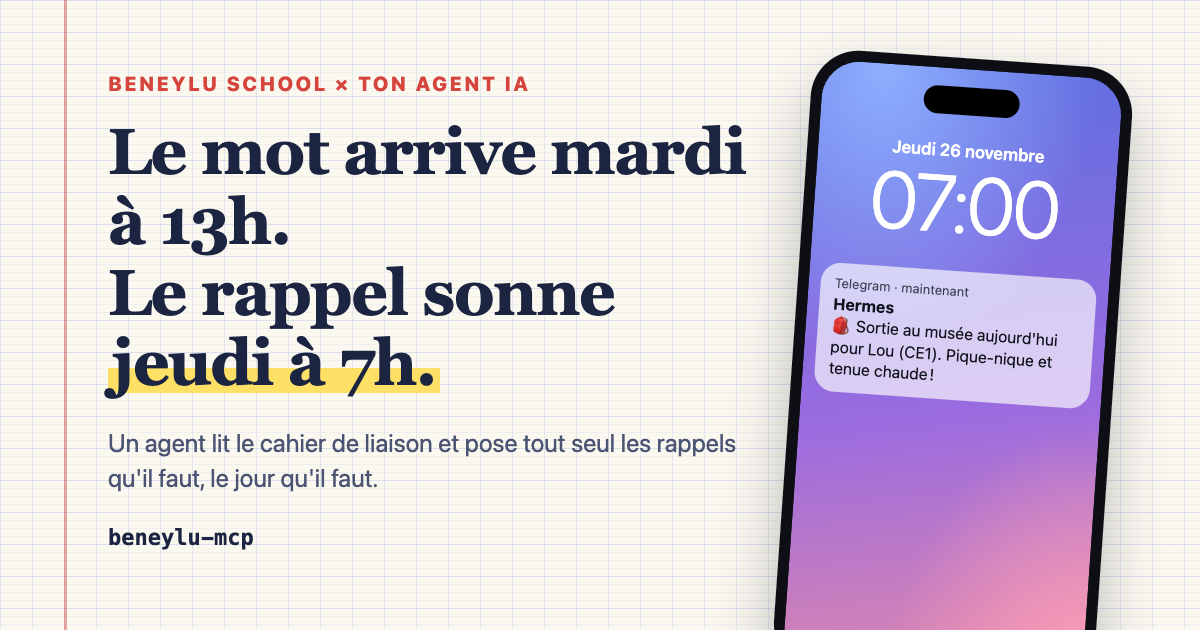
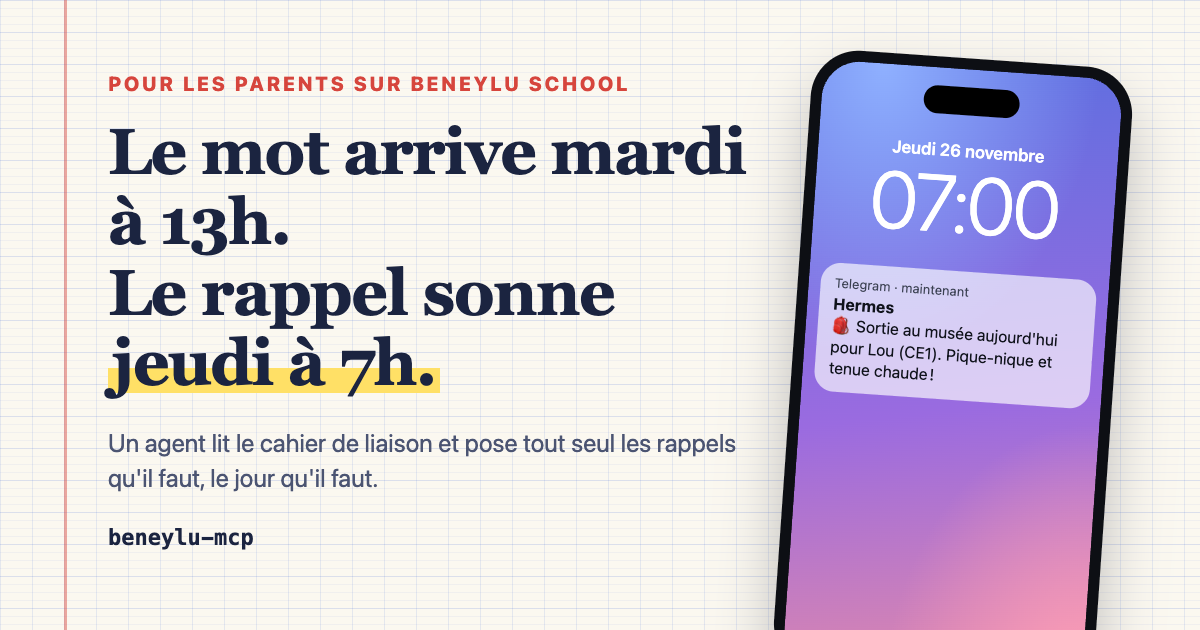
fix: landing page review fixes
Fall back to the static page if app.js throws, say plainly where a
password typed in chat goes, drop the 'x' that read as a partnership,
fix the deadline wording, the delivery delay, the iPad calendar and the
copy button over code on phones. Retitle the rule section.

Changed region(s): [[0.0925, 0.1206, 0.5242, 0.1508]]

diff --git a/site/app.js b/site/app.js
@@ -1,138 +1,150 @@
-window.__appReady = true;
-
 const root = document.documentElement;
-const $ = (s, r = document) => r.querySelector(s);
-const $$ = (s, r = document) => [...r.querySelectorAll(s)];
-const sleep = (ms) => new Promise((r) => setTimeout(r, ms));
-const animated = () => root.classList.contains("js");
 
-const darkQuery = matchMedia("(prefers-color-scheme: dark)");
-const toggle = $("#theme-toggle");
-const theme = () => root.dataset.theme || (darkQuery.matches ? "dark" : "light");
-function paintToggle() {
-  const dark = theme() === "dark";
-  $(".icon", toggle).textContent = dark ? "☀" : "🌙";
-  $(".label", toggle).textContent = dark ? "Cahier" : "Tableau";
-  toggle.setAttribute("aria-label", dark ? "Passer au thème cahier (clair)" : "Passer au thème tableau (sombre)");
-}
-toggle.addEventListener("click", () => {
-  const next = theme() === "dark" ? "light" : "dark";
-  root.dataset.theme = next;
-  try { localStorage.setItem("theme", next); } catch (e) {}
-  paintToggle();
-});
-darkQuery.addEventListener("change", paintToggle);
-paintToggle();
+function start() {
+  const $ = (s, r = document) => r.querySelector(s);
+  const $$ = (s, r = document) => [...r.querySelectorAll(s)];
+  const sleep = (ms) => new Promise((r) => setTimeout(r, ms));
+  const animated = () => root.classList.contains("js");
 
-function flash(btn, text, ok) {
-  const label = btn.dataset.label || (btn.dataset.label = btn.textContent);
-  btn.textContent = text;
-  btn.classList.toggle("ok", ok);
-  clearTimeout(btn._t);
-  btn._t = setTimeout(() => { btn.textContent = label; btn.classList.remove("ok"); }, 2000);
-}
-$$(".code").forEach((fig) => {
-  const btn = $(".copy", fig);
-  const code = $("code", fig);
-  btn.addEventListener("click", async () => {
-    try {
-      await navigator.clipboard.writeText(code.innerText);
-      flash(btn, "Copié ✓", true);
-    } catch (e) {
-      const range = document.createRange();
-      range.selectNodeContents(code);
-      const sel = getSelection();
-      sel.removeAllRanges();
-      sel.addRange(range);
-      flash(btn, "Sélectionné, à copier", false);
-    }
+  const darkQuery = matchMedia("(prefers-color-scheme: dark)");
+  const toggle = $("#theme-toggle");
+  const theme = () => root.dataset.theme || (darkQuery.matches ? "dark" : "light");
+  function paintToggle() {
+    const dark = theme() === "dark";
+    $(".icon", toggle).textContent = dark ? "☀" : "🌙";
+    $(".label", toggle).textContent = dark ? "Cahier" : "Tableau";
+    toggle.setAttribute("aria-label", dark ? "Passer au thème cahier (clair)" : "Passer au thème tableau (sombre)");
+  }
+  toggle.addEventListener("click", () => {
+    const next = theme() === "dark" ? "light" : "dark";
+    root.dataset.theme = next;
+    try { localStorage.setItem("theme", next); } catch (e) {}
+    paintToggle();
   });
-});
+  if (darkQuery.addEventListener) darkQuery.addEventListener("change", paintToggle);
+  else darkQuery.addListener(paintToggle);
+  paintToggle();
 
-function onVisible(el, fn) {
-  if (!el) return;
-  const io = new IntersectionObserver((entries) => {
-    if (entries.some((e) => e.isIntersecting)) { io.disconnect(); fn(el); }
-  }, { rootMargin: "0px 0px -18% 0px" });
-  io.observe(el);
-}
+  function flash(btn, text, ok) {
+    const label = btn.dataset.label || (btn.dataset.label = btn.textContent);
+    btn.textContent = text;
+    btn.classList.toggle("ok", ok);
+    clearTimeout(btn._t);
+    btn._t = setTimeout(() => { btn.textContent = label; btn.classList.remove("ok"); }, 2000);
+  }
+  $$(".code").forEach((fig) => {
+    const btn = $(".copy", fig);
+    const code = $("code", fig);
+    btn.addEventListener("click", async () => {
+      try {
+        await navigator.clipboard.writeText(code.innerText);
+        flash(btn, "Copié ✓", true);
+      } catch (e) {
+        const range = document.createRange();
+        range.selectNodeContents(code);
+        const sel = getSelection();
+        sel.removeAllRanges();
+        sel.addRange(range);
+        flash(btn, "Sélectionné, à copier", false);
+      }
+    });
+  });
 
-async function ringPhone() {
-  const phone = $(".phone");
-  const clock = $(".lock-time");
-  clock.textContent = "06:59";
-  $(".hero").classList.add("is-on");
-  await sleep(1500);
-  clock.textContent = "07:00";
-  clock.classList.add("tick");
-  await sleep(380);
-  phone.classList.add("ring");
-}
+  function onVisible(el, fn) {
+    if (!el) return;
+    const io = new IntersectionObserver((entries) => {
+      if (entries.some((e) => e.isIntersecting)) { io.disconnect(); fn(el); }
+    }, { rootMargin: "0px 0px -18% 0px" });
+    io.observe(el);
+  }
 
-const chat = $("#chat-body");
-const replay = $("#replay");
-const steps = $$(".steps li");
-let run = 0;
+  async function ringPhone() {
+    const phone = $(".phone");
+    const clock = $(".lock-time");
+    clock.textContent = "06:59";
+    $(".hero").classList.add("is-on");
+    await sleep(1500);
+    clock.textContent = "07:00";
+    clock.classList.add("tick");
+    await sleep(380);
+    phone.classList.add("ring");
+  }
 
-function setStep(n) {
-  steps.forEach((s, i) => { s.classList.toggle("done", i < n); s.classList.toggle("active", i === n); });
-}
-function resetChat() {
-  $$("[data-seq], .reminders li", chat).forEach((el) => el.classList.remove("shown"));
-  $$(".date", chat).forEach((el) => el.classList.remove("lit"));
-  $$(".typing", chat).forEach((el) => el.remove());
-  replay.hidden = true;
-  setStep(-1);
-}
-async function playChat() {
-  const me = ++run;
-  const wait = async (ms) => { await sleep(ms); if (me !== run) throw new Error("replaced"); };
-  const scroll = () => { chat.scrollTop = chat.scrollHeight; };
-  const show = (el) => { el.classList.add("shown"); scroll(); };
-  const typing = async (ms) => {
-    const t = document.createElement("div");
-    t.className = "bubble typing";
-    t.setAttribute("aria-hidden", "true");
-    t.innerHTML = "<span></span><span></span><span></span>";
-    chat.append(t);
-    scroll();
-    try { await wait(ms); } finally { t.remove(); }
-  };
-  const [sep1, mot, agent, ...days] = $$("[data-seq]", chat);
-  resetChat();
-  try {
-    setStep(0);
-    show(sep1);
-    await wait(1100);
-    await typing(900);
-    show(mot);
-    setStep(1);
-    await wait(1000);
-    for (const d of $$(".date", mot)) { d.classList.add("lit"); await wait(700); }
-    setStep(2);
-    await typing(1300);
-    show(agent);
-    for (const li of $$(".reminders li", agent)) { await wait(420); li.classList.add("shown"); scroll(); }
-    await wait(1300);
-    setStep(3);
-    for (let i = 0; i < days.length; i += 2) {
-      show(days[i]);
-      await wait(500);
-      await typing(700);
-      show(days[i + 1]);
+  const chat = $("#chat-body");
+  const replay = $("#replay");
+  const steps = $$(".steps li");
+  let run = 0;
+
+  function setStep(n) {
+    steps.forEach((s, i) => { s.classList.toggle("done", i < n); s.classList.toggle("active", i === n); });
+  }
+  function resetChat() {
+    $$("[data-seq], .reminders li", chat).forEach((el) => el.classList.remove("shown"));
+    $$(".date", chat).forEach((el) => el.classList.remove("lit"));
+    $$(".typing", chat).forEach((el) => el.remove());
+    replay.hidden = true;
+    setStep(-1);
+  }
+  async function playChat() {
+    const me = ++run;
+    const wait = async (ms) => { await sleep(ms); if (me !== run) throw new Error("replaced"); };
+    const scroll = () => { chat.scrollTop = chat.scrollHeight; };
+    const show = (el) => { el.classList.add("shown"); scroll(); };
+    const typing = async (ms) => {
+      const t = document.createElement("div");
+      t.className = "bubble typing";
+      t.setAttribute("aria-hidden", "true");
+      t.innerHTML = "<span></span><span></span><span></span>";
+      chat.append(t);
+      scroll();
+      try { await wait(ms); } finally { t.remove(); }
+    };
+    const [sep1, mot, agent, ...days] = $$("[data-seq]", chat);
+    resetChat();
+    try {
+      setStep(0);
+      show(sep1);
       await wait(1100);
+      await typing(900);
+      show(mot);
+      setStep(1);
+      await wait(1000);
+      for (const d of $$(".date", mot)) { d.classList.add("lit"); await wait(700); }
+      setStep(2);
+      await typing(1300);
+      show(agent);
+      for (const li of $$(".reminders li", agent)) { await wait(420); li.classList.add("shown"); scroll(); }
+      await wait(1300);
+      setStep(3);
+      for (let i = 0; i < days.length; i += 2) {
+        show(days[i]);
+        await wait(500);
+        await typing(700);
+        show(days[i + 1]);
+        await wait(1100);
+      }
+      setStep(4);
+      replay.hidden = false;
+    } catch (e) {
+      if (e.message !== "replaced") throw e;
     }
-    setStep(4);
-    replay.hidden = false;
-  } catch (e) {
-    if (e.message !== "replaced") throw e;
+  }
+
+  if (animated()) {
+    $$(".reveal").forEach((el) => onVisible(el, (x) => x.classList.add("is-visible")));
+    onVisible($(".fridge"), (x) => x.classList.add("is-visible"));
+    ringPhone();
+    onVisible($(".chat"), playChat);
+    replay.addEventListener("click", playChat);
   }
 }
 
-if (animated()) {
-  $$(".reveal").forEach((el) => onVisible(el, (x) => x.classList.add("is-visible")));
-  onVisible($(".fridge"), (x) => x.classList.add("is-visible"));
-  ringPhone();
-  onVisible($(".chat"), playChat);
-  replay.addEventListener("click", playChat);
+// Any failure falls back to the static page instead of leaving hidden sections hidden.
+try {
+  start();
+} catch (e) {
+  root.classList.replace("js", "static");
+  console.error(e);
+} finally {
+  window.__appReady = true;
 }

diff --git a/site/index.html b/site/index.html
@@ -62,7 +62,7 @@
 <section class="hero" id="top">
   <div class="wrap hero-in">
     <div class="hero-copy reveal">
-      <p class="eyebrow">Beneylu School × ton agent IA</p>
+      <p class="eyebrow">Pour les parents sur Beneylu School</p>
       <h1>Le mot arrive mardi à 13h.<br>Le rappel sonne <span class="mark">jeudi à 7h.</span></h1>
       <p class="lead">Un agent lit le cahier de liaison Beneylu et pose tout seul les rappels qu'il faut, le jour qu'il faut. Sortie, pas de cantine, autorisation à rendre : un super-pouvoir de parent, pour (presque) ne plus rien oublier.</p>
       <p class="lead small">Et l'installation ? Tu donnes ce dépôt à ton agent Hermes. Il s'en occupe.</p>
@@ -152,7 +152,7 @@
           <div class="bubble" data-seq>
             <p><strong>🏫 Beneylu : du nouveau</strong></p>
             <p>📒 Nouveau mot : Lou (Mme Rivière, 17/11 à 12h52)</p>
-            <p class="quote">Chers parents, la classe de CE1 ira au musée des Beaux-Arts le <span class="date">jeudi 26 novembre</span>. Prévoir un pique-nique et une tenue chaude. Merci de rendre l'autorisation signée <span class="date">avant le lundi 23 novembre</span>.</p>
+            <p class="quote">Chers parents, la classe de CE1 ira au musée des Beaux-Arts le <span class="date">jeudi 26 novembre</span>. Prévoir un pique-nique et une tenue chaude. Merci de rendre l'autorisation signée <span class="date">au plus tard le lundi 23 novembre</span>.</p>
             <p>✍ Signature attendue pour Lou</p>
             <p class="time">13:00</p>
           </div>
@@ -198,7 +198,7 @@
   <div class="wrap">
     <header class="sec-head reveal">
       <p class="eyebrow">La règle</p>
-      <h2 id="week-title">Un mot, deux dates, trois rappels.</h2>
+      <h2 id="week-title">Le bon moment, à chaque fois.</h2>
       <p class="lead">L'agent applique la règle que tu appliquerais toi-même, si tu avais le temps.</p>
     </header>
 
@@ -315,14 +315,16 @@
 
 Installe-le, puis mets en place une surveillance qui nous transmet les nouveaux mots, à moi et à l'autre parent, et qui pose des rappels pour chaque date importante : le matin même pour un événement, la veille et le dernier jour pour une date limite.
 
-Inspire-toi de examples/hermes/, adapte-le à ta configuration, et teste avec un faux mot réaliste avant de me dire que c'est prêt.</code></pre>
+Inspire-toi de examples/hermes/, adapte-le à ta configuration, et teste avec un faux mot réaliste avant de me dire que c'est prêt.
+
+Ne me demande pas mon mot de passe Beneylu dans la conversation : dis-moi où le mettre moi-même.</code></pre>
     </figure>
 
     <div class="expect">
       <div class="reveal">
         <h3>Ce qu'il va te demander</h3>
         <ul class="checks">
-          <li>Tes identifiants Beneylu (compte parent).</li>
+          <li>Tes identifiants Beneylu. Le plus sûr : les mettre toi-même dans sa configuration, pas dans la conversation.</li>
           <li>Qui doit recevoir les mots et les rappels.</li>
           <li>De valider son plan avant de le mettre en place.</li>
         </ul>
@@ -354,10 +356,10 @@ Inspire-toi de examples/hermes/, adapte-le à ta configuration, et teste avec un
         <h4><span class="n">2</span> Adapter le script de surveillance</h4>
         <figure class="code">
           <button class="copy" type="button">Copier</button>
-<pre><code>curl -o ~/.hermes/scripts/beneylu_whats_new.py \
+<pre><code>curl --create-dirs -o ~/.hermes/scripts/beneylu_whats_new.py \
   https://raw.githubusercontent.com/hclaria/beneylu-mcp/main/examples/hermes/beneylu_whats_new.py</code></pre>
         </figure>
-        <p>Variables à régler : <code>BENEYLU_MCP_CMD</code>, <code>BENEYLU_CHATS</code>, <code>BENEYLU_KIDS</code>. Le détail est dans la <a href="https://github.com/hclaria/beneylu-mcp/tree/main/examples/hermes">recette</a>.</p>
+        <p>Variables à régler : <code>BENEYLU_MCP_CMD</code>, <code>BENEYLU_CHATS</code>, <code>BENEYLU_KIDS</code>, et tes identifiants (<code>BENEYLU_USERNAME</code>, <code>BENEYLU_PASSWORD</code>) pour le serveur que lance le script. Le détail est dans la <a href="https://github.com/hclaria/beneylu-mcp/tree/main/examples/hermes">recette</a>.</p>
         <h4><span class="n">3</span> Créer le cron « surveillance »</h4>
         <p>Avec la consigne <a href="https://github.com/hclaria/beneylu-mcp/blob/main/examples/hermes/cron_prompt.md"><code>cron_prompt.md</code></a>, dont tu remplaces les <code>&lt;...&gt;</code> :</p>
         <figure class="code">
@@ -383,9 +385,9 @@ Inspire-toi de examples/hermes/, adapte-le à ta configuration, et teste avec un
     <details><summary>Ça marche avec l'école de mes enfants ?</summary><p>Si l'école utilise Beneylu School et que tu as un compte parent, oui. Le serveur lit le cahier de liaison, les notifications (pancarte, calendrier) et la messagerie.</p></details>
     <details><summary>C'est un produit Beneylu ?</summary><p>Non. C'est un projet personnel, sans lien avec Beneylu. Beneylu n'a pas d'API publique : le serveur utilise l'API interne du site, qui peut changer sans prévenir.</p></details>
     <details><summary>L'école va voir que j'ai « lu » les mots ?</summary><p>Non. La vérification automatique ne marque rien comme lu. Seule la lecture d'une conversation, à la demande d'un parent, peut le faire.</p></details>
-    <details><summary>Et si l'agent rate une date ?</summary><p>Le mot complet t'arrive quand même sur Telegram dès qu'il est publié. Le rappel est un filet en plus, pas le seul.</p></details>
+    <details><summary>Et si l'agent rate une date ?</summary><p>Le mot complet t'arrive quand même sur Telegram, quelques heures au plus après sa publication. Le rappel est un filet en plus, pas le seul.</p></details>
     <details><summary>Combien ça coûte ?</summary><p>Le serveur est gratuit. Le modèle n'est sollicité que quand un mot arrive : le reste du temps, un simple script tourne, sans aucun token.</p></details>
-    <details><summary>Je donne mes identifiants à l'agent ?</summary><p>Il en a besoin pour se connecter à Beneylu. Si tu préfères qu'ils ne passent pas par la conversation, mets-les toi-même dans la configuration de Hermes (étape 1 de l'installation à la main). Ils restent sur ta machine.</p></details>
+    <details><summary>Je donne mes identifiants à l'agent ?</summary><p>Il en a besoin pour se connecter à Beneylu. Tapés dans la conversation, ils passent par Telegram et par le fournisseur de ton LLM. Le plus sûr est de les mettre toi-même dans la configuration de Hermes (étape 1 de l'installation à la main) : ils restent alors sur ta machine.</p></details>
     <details><summary>Je n'utilise pas Hermes.</summary><p>Le serveur MCP marche avec n'importe quel client MCP (Claude, par exemple) pour poser des questions : « il y a quoi demain pour Lou ? ». Les rappels automatiques s'appuient sur les crons de Hermes ; un autre agent qui sait planifier des tâches peut s'inspirer de la même piste.</p></details>
   </div>
 </section>

diff --git a/site/style.css b/site/style.css
@@ -284,7 +284,7 @@ h3 { font-size: 1.3rem; }
 .chip.event span { color: var(--green); }
 .js .cal .chip { opacity: 0; transform: translateY(-30px) rotate(-3deg); }
 .js .cal.is-visible .chip { opacity: 1; transform: none; transition: opacity 0.3s, transform 0.6s cubic-bezier(0.34, 1.56, 0.64, 1); transition-delay: calc(var(--i) * 0.35s + 0.5s); }
-@media (max-width: 760px) {
+@media (max-width: 1000px) {
   .cal { grid-template-columns: 1fr; }
   .day { min-height: 0; flex-direction: row; align-items: center; border-right: 0; border-bottom: 1px solid var(--border); padding: 10px 14px; gap: 14px; }
   .day:last-child { border-bottom: 0; }
@@ -348,6 +348,7 @@ h3 { font-size: 1.3rem; }
 .code { position: relative; margin: 0; border-radius: 16px; background: var(--code-bg); color: var(--code-ink); box-shadow: var(--shadow); }
 .code figcaption { padding: 12px 18px 0; font-size: 0.8rem; font-weight: 600; letter-spacing: 0.06em; text-transform: uppercase; color: color-mix(in srgb, var(--code-ink) 60%, transparent); }
 .code pre { margin: 0; padding: 18px; overflow-x: auto; font: 0.9rem/1.6 var(--font-mono); }
+.code:not(.prompt) pre { padding-top: 48px; }
 .code code { background: none; padding: 0; font-size: inherit; color: inherit; overflow-wrap: normal; }
 .copy { position: absolute; top: 10px; right: 10px; padding: 6px 12px; border-radius: 999px; border: 1px solid rgba(255, 255, 255, 0.2); background: rgba(255, 255, 255, 0.08); color: #fff; font: inherit; font-size: 0.82rem; cursor: pointer; }
 .copy:hover { background: rgba(255, 255, 255, 0.16); }

diff --git a/site/og.html b/site/og.html
@@ -37,7 +37,7 @@
 </head>
 <body>
   <div class="copy">
-    <p class="eyebrow">Beneylu School × ton agent IA</p>
+    <p class="eyebrow">Pour les parents sur Beneylu School</p>
     <h1>Le mot arrive mardi à 13h.<br>Le rappel sonne <span class="mark">jeudi à 7h.</span></h1>
     <p class="sub">Un agent lit le cahier de liaison et pose tout seul les rappels qu'il faut, le jour qu'il faut.</p>
     <p class="brand">beneylu-mcp</p>
